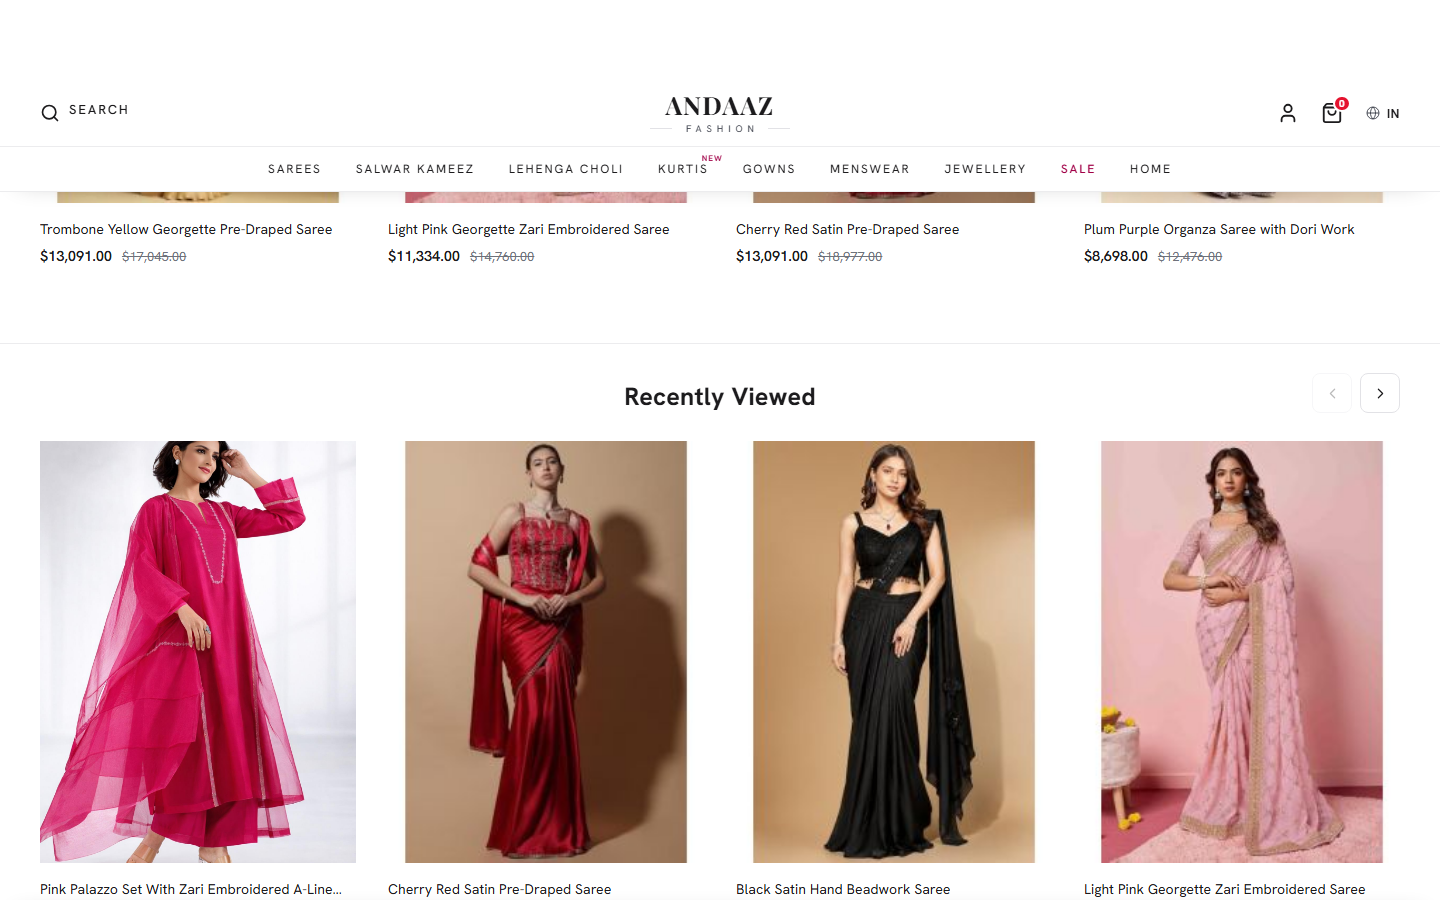
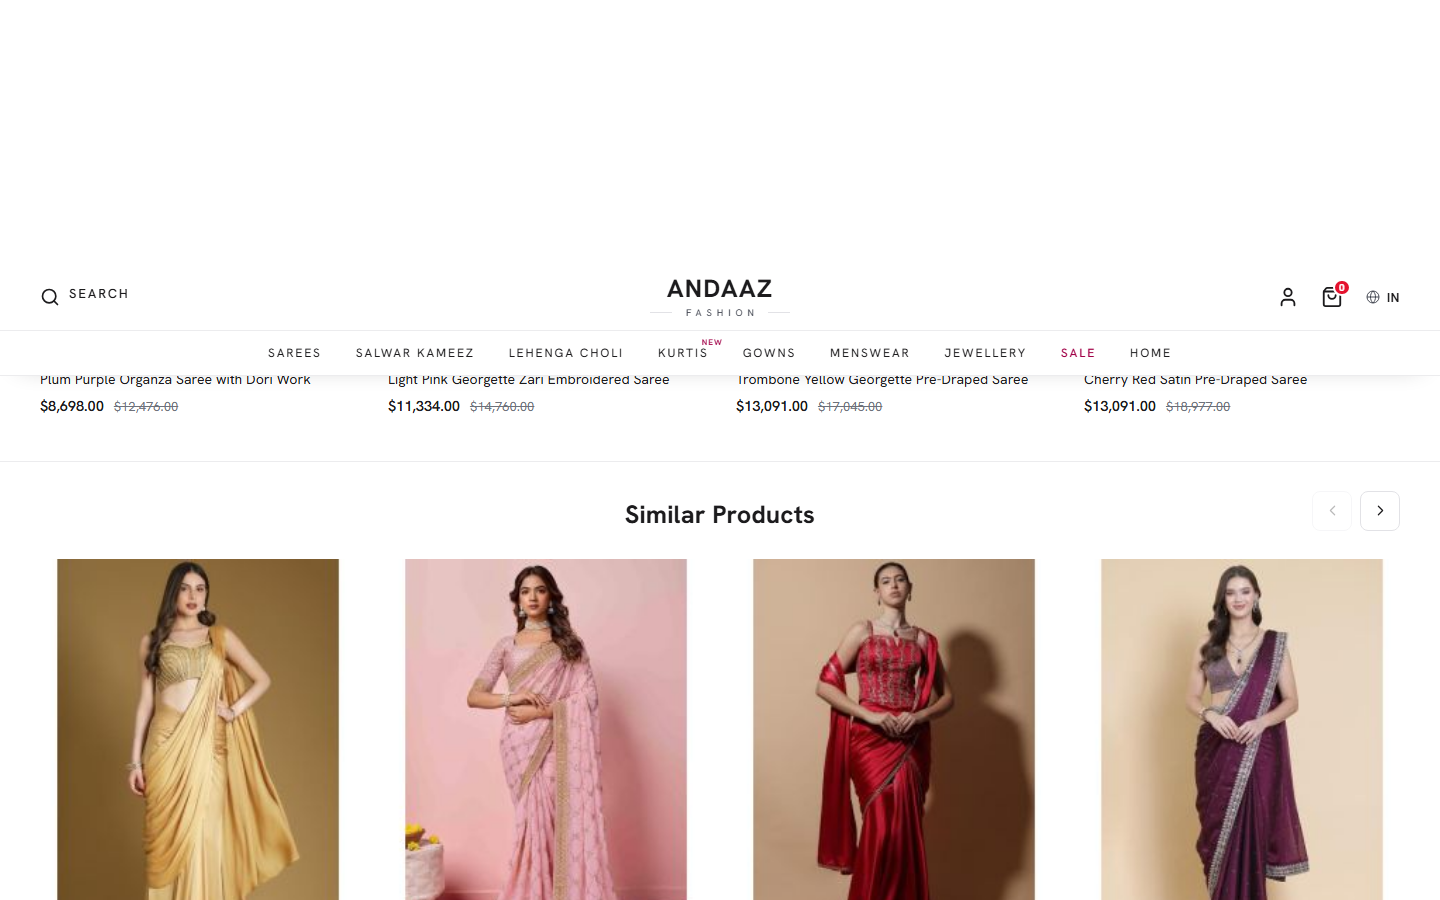
auto-sync Mon 07/13/2026 17:57:10.54

diff --git a/output/andaaz-bvffgzb8fdewg8cq-z03-azurefd-net/sections/auto-product.html b/output/andaaz-bvffgzb8fdewg8cq-z03-azurefd-net/sections/auto-product.html
@@ -383,46 +383,45 @@
   .sim__nav{position:absolute;right:0;bottom:0;display:flex;gap:8px}
   @media (max-width:900px){ .sim{padding:8px 18px 60px} .sim__nav{display:none} }
 
-  /* ===================== FOOTER (dark luxury) ===================== */
-  :root{--fac:#c2316b}
-  .ft{background-color:#000;color:#fff}
-  .ft-banner{position:relative;background:#100a0d;overflow:hidden}
-  .ft-banner::before{content:"";position:absolute;inset:0;background:linear-gradient(rgba(16,10,13,.82),rgba(12,8,10,.92)),var(--ft-store,radial-gradient(140% 160% at 20% -20%, #2a1d24, #120c10 60%, #0b080a)) center/cover;z-index:0}
-  .ft-top{position:relative;z-index:1;max-width:1320px;margin:0 auto;padding:76px 40px;display:grid;grid-template-columns:1fr 1fr;gap:48px}
-  .ft-card{background:rgba(255,255,255,.05);border:1px solid rgba(255,255,255,.14);border-radius:8px;padding:42px 46px;box-shadow:inset 0 1px 0 rgba(255,255,255,.06)}
-  .ft-card h3{text-align:center;font-family:var(--logo);font-weight:600;font-size:25px;color:#fff;letter-spacing:.03em;margin-bottom:8px}
-  .ft-card h3::after{content:"";display:block;width:44px;height:1px;background:var(--fac);margin:14px auto 24px}
-  .ft-hrow{display:flex;align-items:center;justify-content:space-between;gap:20px;padding:16px 0;border-bottom:1px solid rgba(255,255,255,.09)}
+  /* ===================== FOOTER (soft grey + rani) ===================== */
+  :root{--fac:#a10047;--ftg:#f1f0f3;--ftg2:#eae8ee}
+  .ft{background:var(--ftg);color:var(--ink);border-top:1px solid var(--line)}
+  .ft-banner{background:var(--ftg)}
+  .ft-top{max-width:1320px;margin:0 auto;padding:70px 40px;display:grid;grid-template-columns:1fr 1fr;gap:40px}
+  .ft-card{background:#fff;border:1px solid var(--line-2);border-radius:14px;padding:40px 44px;box-shadow:0 12px 34px -24px rgba(30,20,30,.28)}
+  .ft-card h3{text-align:center;font-weight:700;font-size:23px;color:var(--ink);letter-spacing:.01em;margin-bottom:8px}
+  .ft-card h3::after{content:"";display:block;width:44px;height:2px;background:var(--fac);margin:14px auto 24px}
+  .ft-hrow{display:flex;align-items:center;justify-content:space-between;gap:20px;padding:16px 0;border-bottom:1px solid var(--line)}
   .ft-hrow:last-child{border-bottom:0}
-  .ft-hrow .t{font-size:14px;font-weight:500;color:#f3eef0;letter-spacing:.01em}
-  .ft-hrow .s{font-size:12px;color:rgba(255,255,255,.5);margin-top:3px}
-  .ft-btn{flex:0 0 auto;border:1px solid rgba(255,255,255,.32);background:transparent;color:#fff;border-radius:24px;padding:9px 24px;font-family:var(--f);font-size:12px;font-weight:600;letter-spacing:.06em;text-transform:uppercase;cursor:pointer;transition:.22s}
-  .ft-btn:hover{background:var(--fac);border-color:var(--fac);color:#fff}
+  .ft-hrow .t{font-size:14px;font-weight:600;color:var(--ink);letter-spacing:.01em}
+  .ft-hrow .s{font-size:12px;color:var(--muted);margin-top:3px}
+  .ft-btn{flex:0 0 auto;border:1px solid var(--ink);background:#fff;color:var(--ink);border-radius:24px;padding:9px 24px;font-family:var(--f);font-size:12px;font-weight:600;letter-spacing:.06em;text-transform:uppercase;cursor:pointer;transition:.22s}
+  .ft-btn:hover{background:var(--brand);border-color:var(--brand);color:#fff}
   .ft-addr{text-align:center}
-  .ft-addr .pin{display:inline-flex;align-items:center;gap:7px;font-size:14px;font-weight:600;color:#fff;margin-bottom:8px}
+  .ft-addr .pin{display:inline-flex;align-items:center;gap:7px;font-size:14px;font-weight:600;color:var(--ink);margin-bottom:8px}
   .ft-addr .pin svg{width:15px;height:15px;stroke:var(--fac);stroke-width:1.7;fill:none}
-  .ft-addr .line{font-size:13.5px;color:rgba(255,255,255,.7);line-height:2}
+  .ft-addr .line{font-size:13.5px;color:var(--ink-2);line-height:2}
   .ft-addr .line a{color:var(--fac)}
-  .ft-sub{font-family:var(--logo);font-size:19px;font-weight:600;color:#fff;letter-spacing:.02em;margin:28px 0 16px}
+  .ft-sub{font-size:19px;font-weight:700;color:var(--ink);letter-spacing:.01em;margin:28px 0 16px}
   .ft-social{display:flex;justify-content:center;gap:24px}
-  .ft-social a{color:rgba(255,255,255,.66);transition:color .2s}.ft-social a:hover{color:var(--fac)}
+  .ft-social a{color:var(--ink-2);transition:color .2s}.ft-social a:hover{color:var(--fac)}
   .ft-social svg{width:19px;height:19px;fill:currentColor;display:block}
   .ft-stores{display:flex;justify-content:center;gap:30px;flex-wrap:wrap;margin-top:14px}
-  .ft-stores a{font-size:12.5px;color:rgba(255,255,255,.66);letter-spacing:.02em}.ft-stores a:hover{color:var(--fac)}
-  .ft-cols{border-top:1px solid rgba(255,255,255,.08);background:#000}
+  .ft-stores a{font-size:12.5px;color:var(--ink-2);letter-spacing:.02em}.ft-stores a:hover{color:var(--fac)}
+  .ft-cols{border-top:1px solid var(--line);background:var(--ftg2)}
   .ft-cols .in{max-width:1320px;margin:0 auto;padding:54px 40px;display:grid;grid-template-columns:repeat(4,1fr) 1.35fr;gap:44px}
-  .ft-col h4{font-size:12.5px;font-weight:600;color:var(--fac);letter-spacing:.14em;text-transform:uppercase;margin-bottom:18px}
-  .ft-col a{display:block;font-size:13.5px;color:rgba(255,255,255,.62);padding:7px 0;transition:color .2s}
-  .ft-col a:hover{color:#fff}
-  .ft-join h4{font-family:var(--logo);font-size:18px;font-weight:600;color:#fff;text-align:center;letter-spacing:.01em;text-transform:none}
-  .ft-join p{font-size:12.5px;color:rgba(255,255,255,.5);margin:8px 0 18px;text-align:center}
-  .ft-news{display:flex;border:1px solid rgba(255,255,255,.22);border-radius:4px;overflow:hidden;background:rgba(255,255,255,.04)}
-  .ft-news input{flex:1;min-width:0;border:0;background:transparent;padding:14px 16px;font-family:var(--f);font-size:13.5px;color:#fff;outline:none}
-  .ft-news input::placeholder{color:rgba(255,255,255,.45)}
-  .ft-news button{border:0;background:var(--fac);color:#fff;padding:0 24px;font-family:var(--f);font-size:12px;font-weight:700;letter-spacing:.08em;cursor:pointer;transition:.2s}
+  .ft-col h4{font-size:12.5px;font-weight:700;color:var(--fac);letter-spacing:.14em;text-transform:uppercase;margin-bottom:18px}
+  .ft-col a{display:block;font-size:13.5px;color:var(--ink-2);padding:7px 0;transition:color .2s}
+  .ft-col a:hover{color:var(--ink)}
+  .ft-join h4{font-size:18px;font-weight:700;color:var(--ink);text-align:center;letter-spacing:.01em;text-transform:none}
+  .ft-join p{font-size:12.5px;color:var(--muted);margin:8px 0 18px;text-align:center}
+  .ft-news{display:flex;border:1px solid var(--line-2);border-radius:6px;overflow:hidden;background:#fff}
+  .ft-news input{flex:1;min-width:0;border:0;background:transparent;padding:14px 16px;font-family:var(--f);font-size:13.5px;color:var(--ink);outline:none}
+  .ft-news input::placeholder{color:var(--muted)}
+  .ft-news button{border:0;background:var(--brand);color:#fff;padding:0 24px;font-family:var(--f);font-size:12px;font-weight:700;letter-spacing:.08em;cursor:pointer;transition:.2s}
   .ft-news button:hover{background:var(--brand-dark)}
-  .ft-bar{border-top:1px solid rgba(255,255,255,.08);background:#000}
-  .ft-bar .in{max-width:1320px;margin:0 auto;padding:22px 40px;display:flex;align-items:center;justify-content:space-between;font-size:12px;color:rgba(255,255,255,.45);letter-spacing:.03em}
+  .ft-bar{border-top:1px solid var(--line);background:#e3e1e7}
+  .ft-bar .in{max-width:1320px;margin:0 auto;padding:22px 40px;display:flex;align-items:center;justify-content:space-between;font-size:12px;color:var(--muted);letter-spacing:.03em}
   @media (max-width:900px){ .ft-top{grid-template-columns:1fr;padding:48px 18px;gap:24px} .ft-card{padding:32px 26px} .ft-cols .in{grid-template-columns:1fr 1fr;padding:40px 18px} .ft-bar .in{flex-direction:column;gap:10px;text-align:center} }
 
   /* ===== PERSONAL STYLING (original dark editorial) ===== */